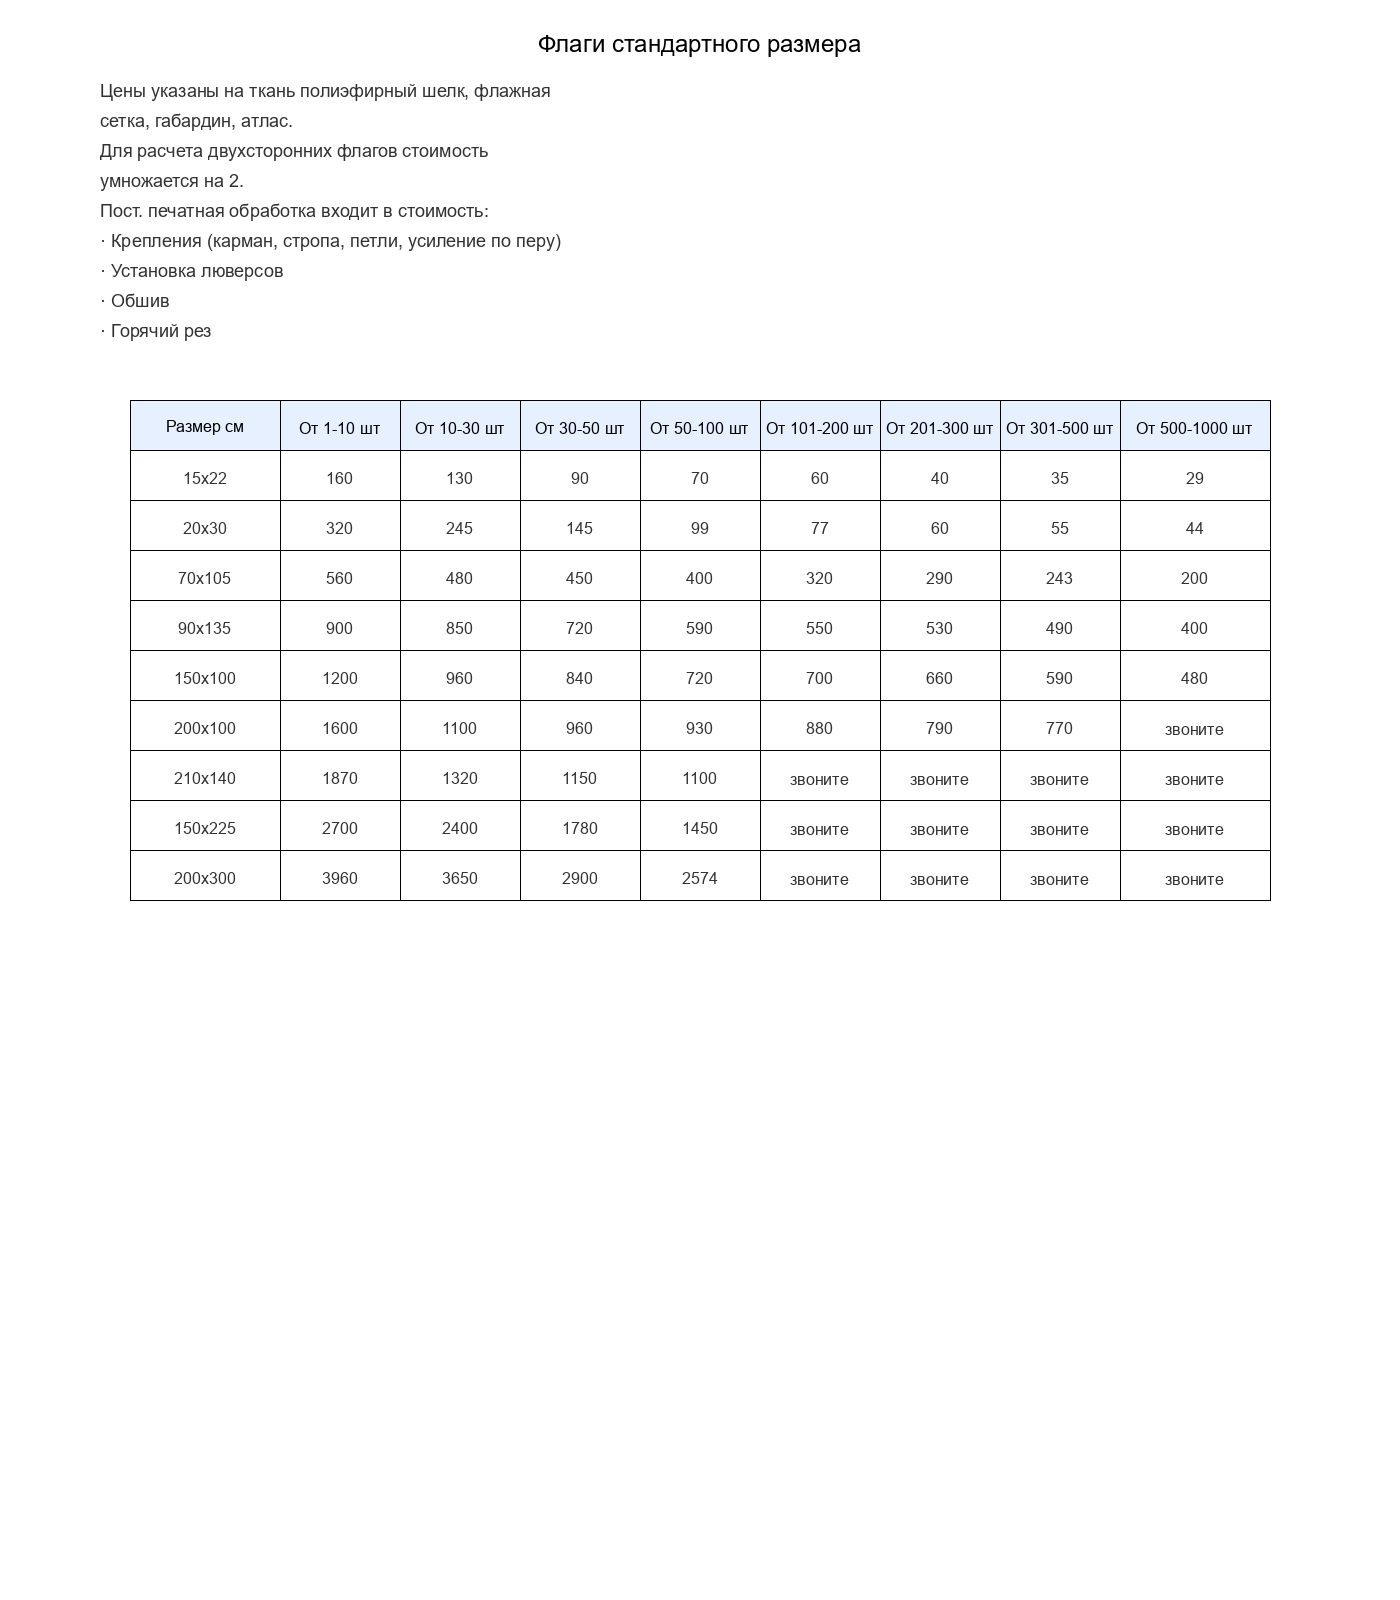
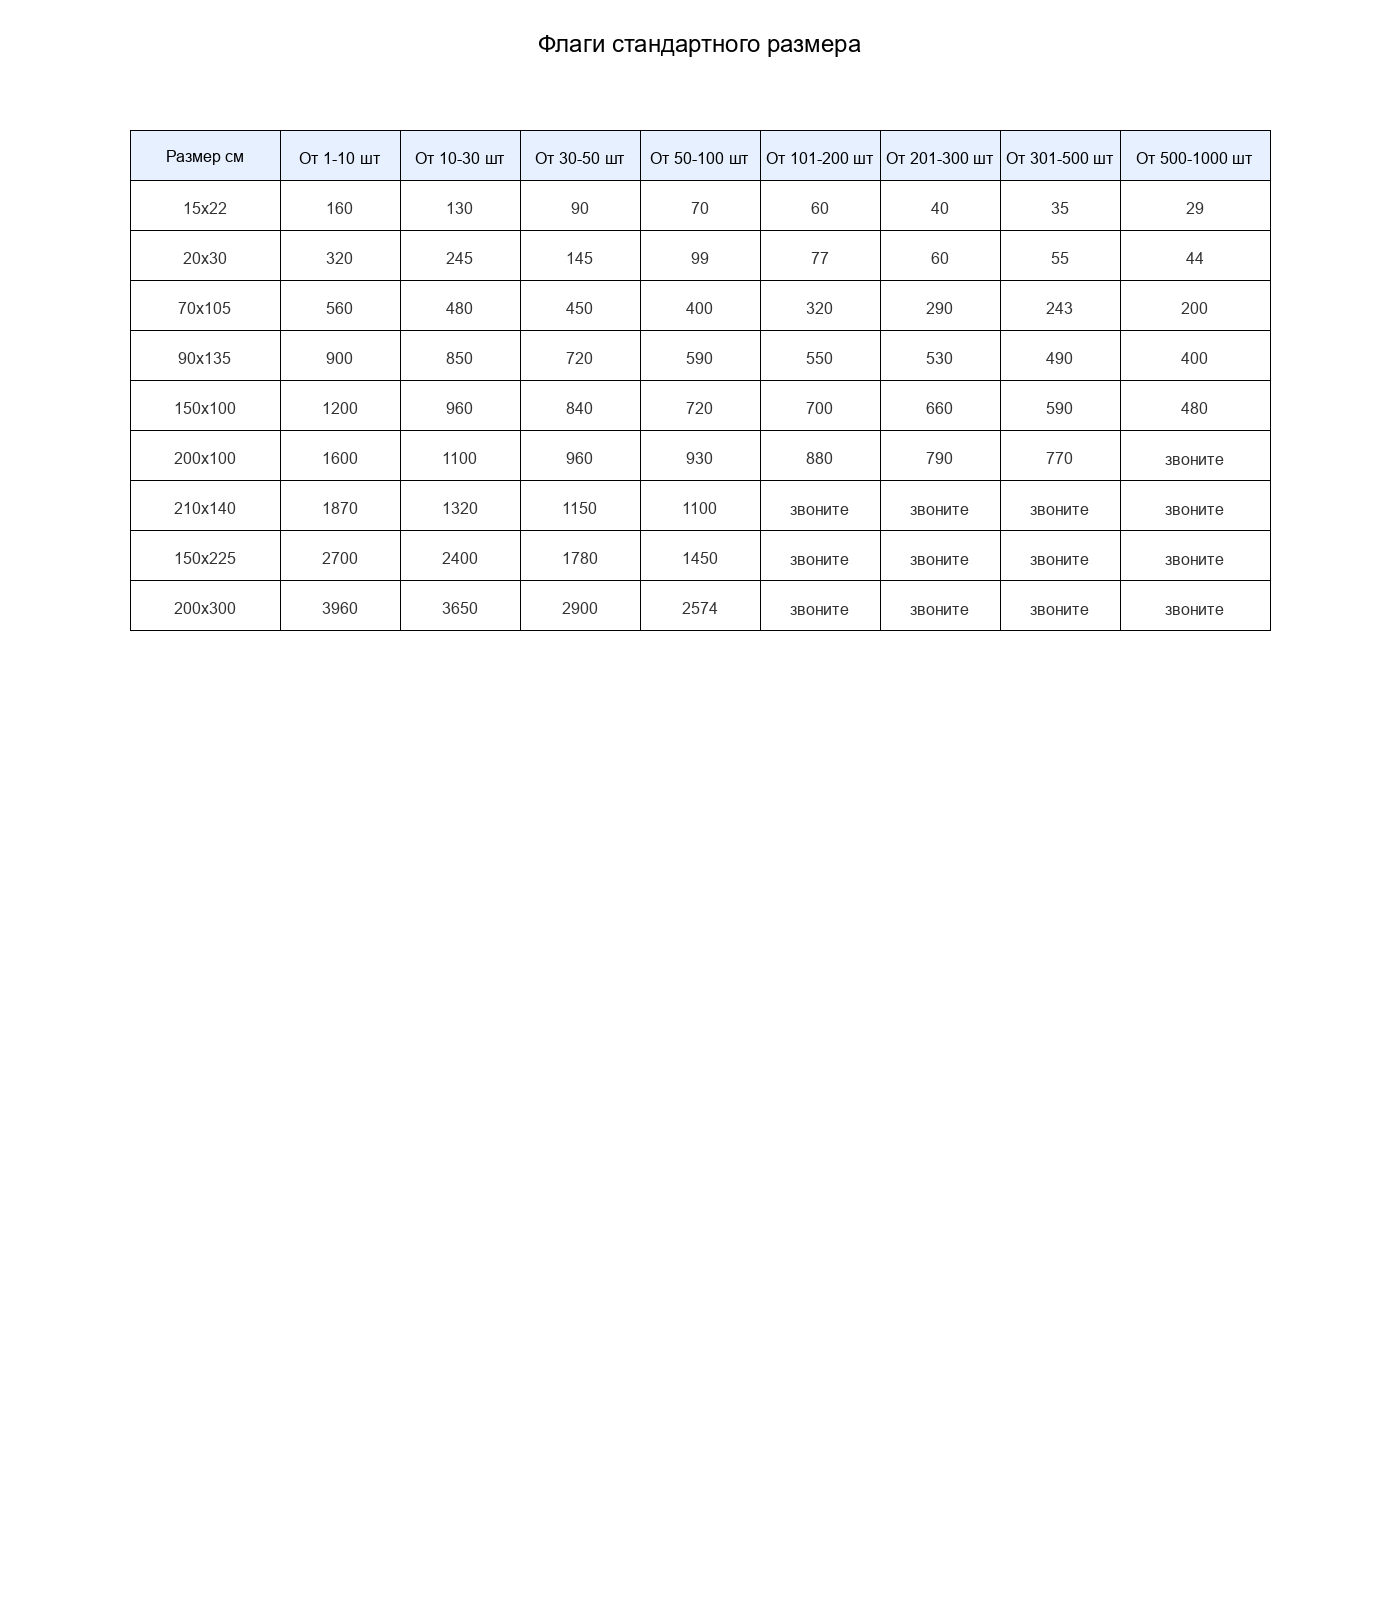
create new code

diff --git a/page_flag_2.py b/page_flag_2.py
@@ -28,24 +28,24 @@ draw.text((text_x, y_text), title_text, font=title_font, fill=title_color)
 y_text += 50  # Увеличиваем отступ после заголовка
 
 # Добавляем текст (сдвинутый влево)
-text = [
-    "Цены указаны на ткань полиэфирный шелк, флажная",
-    "сетка, габардин, атлас.",
-    "Для расчета двухсторонних флагов стоимость",
-    "умножается на 2.",
-    "Пост. печатная обработка входит в стоимость:",
-    "· Крепления (карман, стропа, петли, усиление по перу)",
-    "· Установка люверсов",
-    "· Обшив",
-    "· Горячий рез"
-]
+# text = [
+#    "Цены указаны на ткань полиэфирный шелк, флажная",
+#    "сетка, габардин, атлас.",
+#    "Для расчета двухсторонних флагов стоимость",
+#    "умножается на 2.",
+#    "Пост. печатная обработка входит в стоимость:",
+#    "· Крепления (карман, стропа, петли, усиление по перу)",
+#    "· Установка люверсов",
+#    "· Обшив",
+#    "· Горячий рез"
+#]
 
 # Фиксированный отступ слева для текста
 left_margin = 40  # Отступ слева
 
-for line in text:
-    draw.text((left_margin, y_text), line, font=text_font, fill=text_color)
-    y_text += 30  # Увеличиваем отступ между строками
+#for line in text:
+#    draw.text((left_margin, y_text), line, font=text_font, fill=text_color)
+#    y_text += 30  # Увеличиваем отступ между строками
 
 # Добавляем таблицу
 table = [

diff --git a/page_flag.py b/page_flag.py
@@ -1,5 +1,6 @@
 from PIL import Image, ImageDraw, ImageFont
 
+
 # Увеличиваем размер изображения
 image = Image.new('RGB', (1400, 1600), color=(255, 255, 255))
 draw = ImageDraw.Draw(image)
